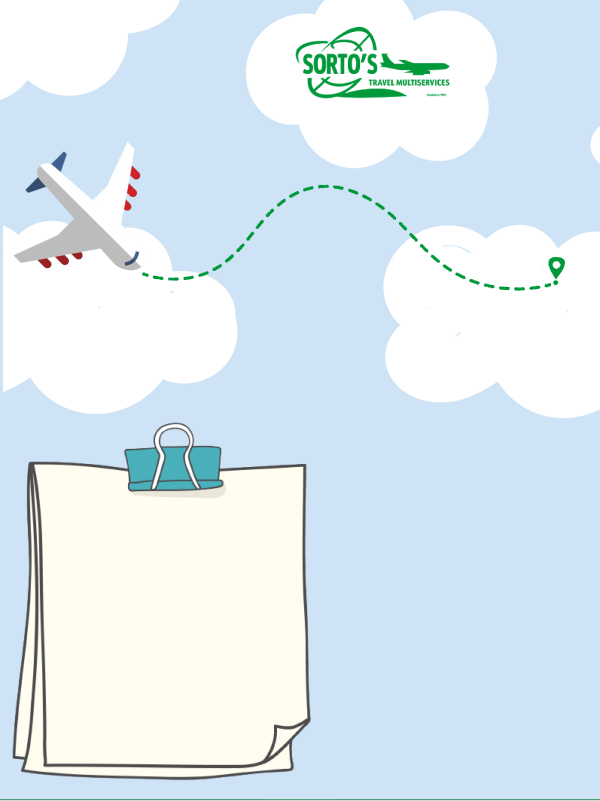
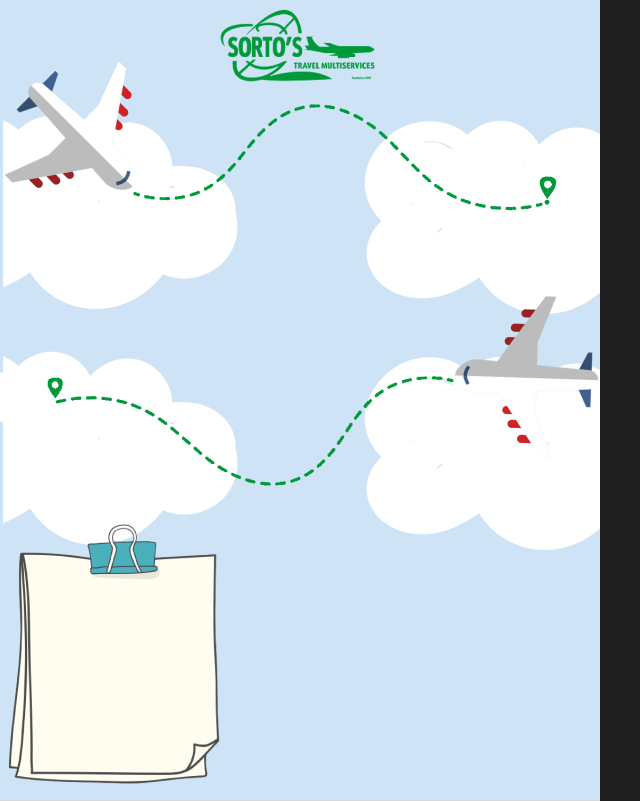
creando componente de vista para viaje sencillo y redondo

diff --git a/src/App.jsx b/src/App.jsx
@@ -12,18 +12,8 @@ import { useState } from "react";
 import moment from "moment";
 const { RangePicker } = DatePicker;
 
-import aviancaLogo from "./assets/avianca.svg";
-import americanAirlinesLogo from "./assets/american-airlines.svg";
-import deltaLogo from "./assets/delta.svg";
-import volarisLogo from "./assets/volaris.svg";
-import united from "./assets/united.svg";
-import frontier from "./assets/frontier.svg";
-import iberia from "./assets/iberia.svg";
-import iberojet from "./assets/iberojet.svg";
-import jetblue from "./assets/jetblue.svg";
-import southwest from "./assets/southwest.svg";
-import spirit from "./assets/spirit.svg";
-import bgCotizacion from "./assets/bg-cotizacion.png";
+import ViajeSencillo from "./components/ViajeSencillo";
+import ViajeRedondo from "./components/ViajeRedondo";
 
 function App() {
   const [dates, setDates] = useState([]);
@@ -34,6 +24,8 @@ function App() {
   const [countBag, setCountBag] = useState(1);
   const [isCheckedEasyTrip, setIsCheckedEasyTrip] = useState(true);
   const [isCheckedAdult, setIsCheckedAdult] = useState(true);
+  const [origin, setOrigin] = useState('');
+  const [destination, setDestination] = useState('');
   const [isCheckedChild, setIsCheckedChild] = useState(false);
 
   function convertToImageAndCopyToClipboard() {
@@ -178,6 +170,7 @@ function App() {
                   id="floating_first_name"
                   className="block py-2.5 px-0 w-full text-sm text-gray-900 bg-transparent border-0 border-b-2 border-gray-300 appearance-none dark:text-white dark:border-gray-600 dark:focus:border-blue-500 focus:outline-none focus:ring-0 focus:border-blue-600 peer"
                   placeholder=" "
+                  onChange={(e) => setOrigin(e.target.value.toUpperCase())}
                 />
                 <label
                   htmlFor="floating_first_name"
@@ -193,6 +186,7 @@ function App() {
                   id="floating_last_name"
                   className="block py-2.5 px-0 w-full text-sm text-gray-900 bg-transparent border-0 border-b-2 border-gray-300 appearance-none dark:text-white dark:border-gray-600 dark:focus:border-blue-500 focus:outline-none focus:ring-0 focus:border-blue-600 peer"
                   placeholder=" "
+                  onChange={(e) => setDestination(e.target.value.toUpperCase())}
                 />
                 <label
                   htmlFor="floating_last_name"
@@ -332,16 +326,16 @@ function App() {
                       {optionsBag.some((option) =>
                         option.includes("Maleta de carga")
                       ) && (
-                        <InputNumber
-                          size="medium"
-                          min={1}
-                          max={10}
-                          bordered={false}
-                          className="bg-white hover:bg-white"
-                          defaultValue={countBag}
-                          onChange={(countBag) => setCountBag(countBag)}
-                        />
-                      )}
+                          <InputNumber
+                            size="medium"
+                            min={1}
+                            max={10}
+                            bordered={false}
+                            className="bg-white hover:bg-white"
+                            defaultValue={countBag}
+                            onChange={(countBag) => setCountBag(countBag)}
+                          />
+                        )}
                     </Col>
                   </Space>
                 </Space>
@@ -400,7 +394,7 @@ function App() {
             <button
               type="button"
               onClick={() => {
-                convertToImageAndCopyToClipboard(bgCotizacion);
+                convertToImageAndCopyToClipboard(isCheckedEasyTrip ? './assets/bg-cotizacion.png' : './assets/bg-cotizacion-sencilla.png');
               }}
               className="text-white bg-blue-700 hover:bg-blue-800 focus:ring-4 focus:outline-none focus:ring-blue-300 font-medium rounded-lg text-sm w-full sm:w-auto px-5 py-2.5 text-center dark:bg-blue-600 dark:hover:bg-blue-700 dark:focus:ring-blue-800"
             >
@@ -412,80 +406,11 @@ function App() {
         {/*************************************
                   DISEÑO DE IMAGEN
         ***************************************/}
-        <div
-          className="border-2 relative bg-black w-[600px] h-[800px]  bg-no-repeat"
-          id="image"
-          style={{
-            backgroundImage: `url(${bgCotizacion})`,
-          }}
-        >
-          {airline === "av" && (
-            <img
-              src={aviancaLogo}
-              className="w-[7rem] absolute top-[12.75rem] left-[2.2rem] rotate-[45deg]"
-            />
-          )}
-          {airline === "de" && (
-            <img
-              src={deltaLogo}
-              className="w-[7rem] absolute top-[12.75rem] left-[2rem] rotate-[47deg]"
-            />
-          )}
-          {airline === "aa" && (
-            <img
-              src={americanAirlinesLogo}
-              className="w-[10rem] absolute top-[10.25rem] left-[.8rem] rotate-[46deg]"
-            />
-          )}
-          {airline === "vo" && (
-            <img
-              src={volarisLogo}
-              className="w-[10rem] absolute top-[10rem] left-[1rem] rotate-[47deg]"
-            />
-          )}
-          {airline === "un" && (
-            <img
-              src={united}
-              className="w-[7rem] absolute top-[12.75rem] left-[2rem] rotate-[45deg]"
-            />
-          )}
-          {airline === "fr" && (
-            <img
-              src={frontier}
-              className="w-[7rem] absolute top-[12.75rem] left-[2rem] rotate-[45deg]"
-            />
-          )}
-          {airline === "ib" && (
-            <img
-              src={iberia}
-              className="w-[7rem] absolute top-[13rem] left-[2rem] rotate-[45deg]"
-            />
-          )}
-          {airline === "ibj" && (
-            <img
-              src={iberojet}
-              className="w-[7rem] absolute top-[12rem] left-[2rem] rotate-[45deg]"
-            />
-          )}
-          {airline === "jb" && (
-            <img
-              src={jetblue}
-              className="w-[5rem] absolute top-[12.75rem] left-[3.4rem] rotate-[45deg]"
-            />
-          )}
-          {airline === "sw" && (
-            <img
-              src={southwest}
-              className="w-[7rem] absolute top-[12.75rem] left-[2rem] rotate-[45deg]"
-            />
-          )}
-          {airline === "sp" && (
-            <img
-              src={spirit}
-              className="w-[6rem] absolute top-[12.75rem] left-[2.5rem] rotate-[45deg]"
-            />
-          )}
-        </div>
+        {
+          isCheckedEasyTrip
+            ? <ViajeRedondo data={{ date, airline, optionsBag, optionsRestrictions, countBag, isCheckedAdult, isCheckedChild, origin, destination }} />
+            : <ViajeSencillo data={{ date, airline, optionsBag, optionsRestrictions, countBag, isCheckedAdult, isCheckedChild, origin, destination }} />
+        }
       </div>
     </>
   );

diff --git a/src/components/ViajeSencillo.jsx b/src/components/ViajeSencillo.jsx
@@ -1,0 +1,103 @@
+import bgCotizacion from "../assets/bg-cotizacion-sencilla.png";
+import aviancaLogo from "../assets/avianca.svg";
+import americanAirlinesLogo from "../assets/american-airlines.svg";
+import deltaLogo from "../assets/delta.svg";
+import volarisLogo from "../assets/volaris.svg";
+import united from "../assets/united.svg";
+import frontier from "../assets/frontier.svg";
+import iberia from "../assets/iberia.svg";
+import iberojet from "../assets/iberojet.svg";
+import jetblue from "../assets/jetblue.svg";
+import southwest from "../assets/southwest.svg";
+import spirit from "../assets/spirit.svg";
+
+function ViajeSencillo({ data }) {
+    const { date, airline, optionsBag, optionsRestrictions, countBag, isCheckedAdult, isCheckedChild, origin, destination } = data;
+    return (
+        <>
+            <div
+                className="border-2 relative bg-black w-[600px] h-[800px]  bg-no-repeat"
+                id="image"
+                style={{
+                    backgroundImage: `url(${bgCotizacion})`,
+                }}
+            >
+                {airline === "av" && (
+                    <img
+                        src={aviancaLogo}
+                        className="w-[7rem] absolute top-[12.75rem] left-[2.2rem] rotate-[45deg]"
+                    />
+                )}
+                {airline === "de" && (
+                    <img
+                        src={deltaLogo}
+                        className="w-[7rem] absolute top-[12.75rem] left-[2rem] rotate-[47deg]"
+                    />
+                )}
+                {airline === "aa" && (
+                    <img
+                        src={americanAirlinesLogo}
+                        className="w-[10rem] absolute top-[10.25rem] left-[.8rem] rotate-[46deg]"
+                    />
+                )}
+                {airline === "vo" && (
+                    <img
+                        src={volarisLogo}
+                        className="w-[10rem] absolute top-[10rem] left-[1rem] rotate-[47deg]"
+                    />
+                )}
+                {airline === "un" && (
+                    <img
+                        src={united}
+                        className="w-[7rem] absolute top-[12.75rem] left-[2rem] rotate-[45deg]"
+                    />
+                )}
+                {airline === "fr" && (
+                    <img
+                        src={frontier}
+                        className="w-[7rem] absolute top-[12.75rem] left-[2rem] rotate-[45deg]"
+                    />
+                )}
+                {airline === "ib" && (
+                    <img
+                        src={iberia}
+                        className="w-[7rem] absolute top-[13rem] left-[2rem] rotate-[45deg]"
+                    />
+                )}
+                {airline === "ibj" && (
+                    <img
+                        src={iberojet}
+                        className="w-[7rem] absolute top-[12rem] left-[2rem] rotate-[45deg]"
+                    />
+                )}
+                {airline === "jb" && (
+                    <img
+                        src={jetblue}
+                        className="w-[5rem] absolute top-[12.75rem] left-[3.4rem] rotate-[45deg]"
+                    />
+                )}
+                {airline === "sw" && (
+                    <img
+                        src={southwest}
+                        className="w-[7rem] absolute top-[12.75rem] left-[2rem] rotate-[45deg]"
+                    />
+                )}
+                {airline === "sp" && (
+                    <img
+                        src={spirit}
+                        className="w-[6rem] absolute top-[12.75rem] left-[2.5rem] rotate-[45deg]"
+                    />
+                )}
+
+                <div className="">
+                    <span className="absolute top-[18rem] left-8 text-[1.25rem] font-bold ">{date}</span>
+                    <span className="absolute top-[20rem] left-9 text-[1.25rem] font-bold ">{origin} - {destination} </span>
+                </div>
+            </div>
+
+        </>
+
+    )
+}
+
+export default ViajeSencillo

diff --git a/src/components/ViajeRedondo.jsx b/src/components/ViajeRedondo.jsx
@@ -1,0 +1,94 @@
+import bgCotizacion from "../assets/bg-cotizacion.png";
+import aviancaLogo from "../assets/avianca.svg";
+import americanAirlinesLogo from "../assets/american-airlines.svg";
+import deltaLogo from "../assets/delta.svg";
+import volarisLogo from "../assets/volaris.svg";
+import united from "../assets/united.svg";
+import frontier from "../assets/frontier.svg";
+import iberia from "../assets/iberia.svg";
+import iberojet from "../assets/iberojet.svg";
+import jetblue from "../assets/jetblue.svg";
+import southwest from "../assets/southwest.svg";
+import spirit from "../assets/spirit.svg";
+
+function ViajeRedondo({ data }) {
+    const { date, airline, optionsBag, optionsRestrictions, countBag, isCheckedAdult, isCheckedChild } = data;
+    return (
+        <div
+            className="border-2 relative bg-black w-[600px] h-[800px]  bg-no-repeat"
+            id="image"
+            style={{
+                backgroundImage: `url(${bgCotizacion})`,
+            }}
+        >
+            {airline === "av" && (
+                <img
+                    src={aviancaLogo}
+                    className="w-[7rem] absolute top-[8rem] left-[2rem] rotate-[45deg]"
+                />
+            )}
+            {airline === "de" && (
+                <img
+                    src={deltaLogo}
+                    className="w-[7rem] absolute top-[12.75rem] left-[2rem] rotate-[47deg]"
+                />
+            )}
+            {airline === "aa" && (
+                <img
+                    src={americanAirlinesLogo}
+                    className="w-[10rem] absolute top-[10.25rem] left-[.8rem] rotate-[46deg]"
+                />
+            )}
+            {airline === "vo" && (
+                <img
+                    src={volarisLogo}
+                    className="w-[10rem] absolute top-[10rem] left-[1rem] rotate-[47deg]"
+                />
+            )}
+            {airline === "un" && (
+                <img
+                    src={united}
+                    className="w-[7rem] absolute top-[12.75rem] left-[2rem] rotate-[45deg]"
+                />
+            )}
+            {airline === "fr" && (
+                <img
+                    src={frontier}
+                    className="w-[7rem] absolute top-[12.75rem] left-[2rem] rotate-[45deg]"
+                />
+            )}
+            {airline === "ib" && (
+                <img
+                    src={iberia}
+                    className="w-[7rem] absolute top-[13rem] left-[2rem] rotate-[45deg]"
+                />
+            )}
+            {airline === "ibj" && (
+                <img
+                    src={iberojet}
+                    className="w-[7rem] absolute top-[12rem] left-[2rem] rotate-[45deg]"
+                />
+            )}
+            {airline === "jb" && (
+                <img
+                    src={jetblue}
+                    className="w-[5rem] absolute top-[12.75rem] left-[3.4rem] rotate-[45deg]"
+                />
+            )}
+            {airline === "sw" && (
+                <img
+                    src={southwest}
+                    className="w-[7rem] absolute top-[12.75rem] left-[2rem] rotate-[45deg]"
+                />
+            )}
+            {airline === "sp" && (
+                <img
+                    src={spirit}
+                    className="w-[6rem] absolute top-[12.75rem] left-[2.5rem] rotate-[45deg]"
+                />
+            )}
+        </div>
+    )
+}
+
+export default ViajeRedondo
